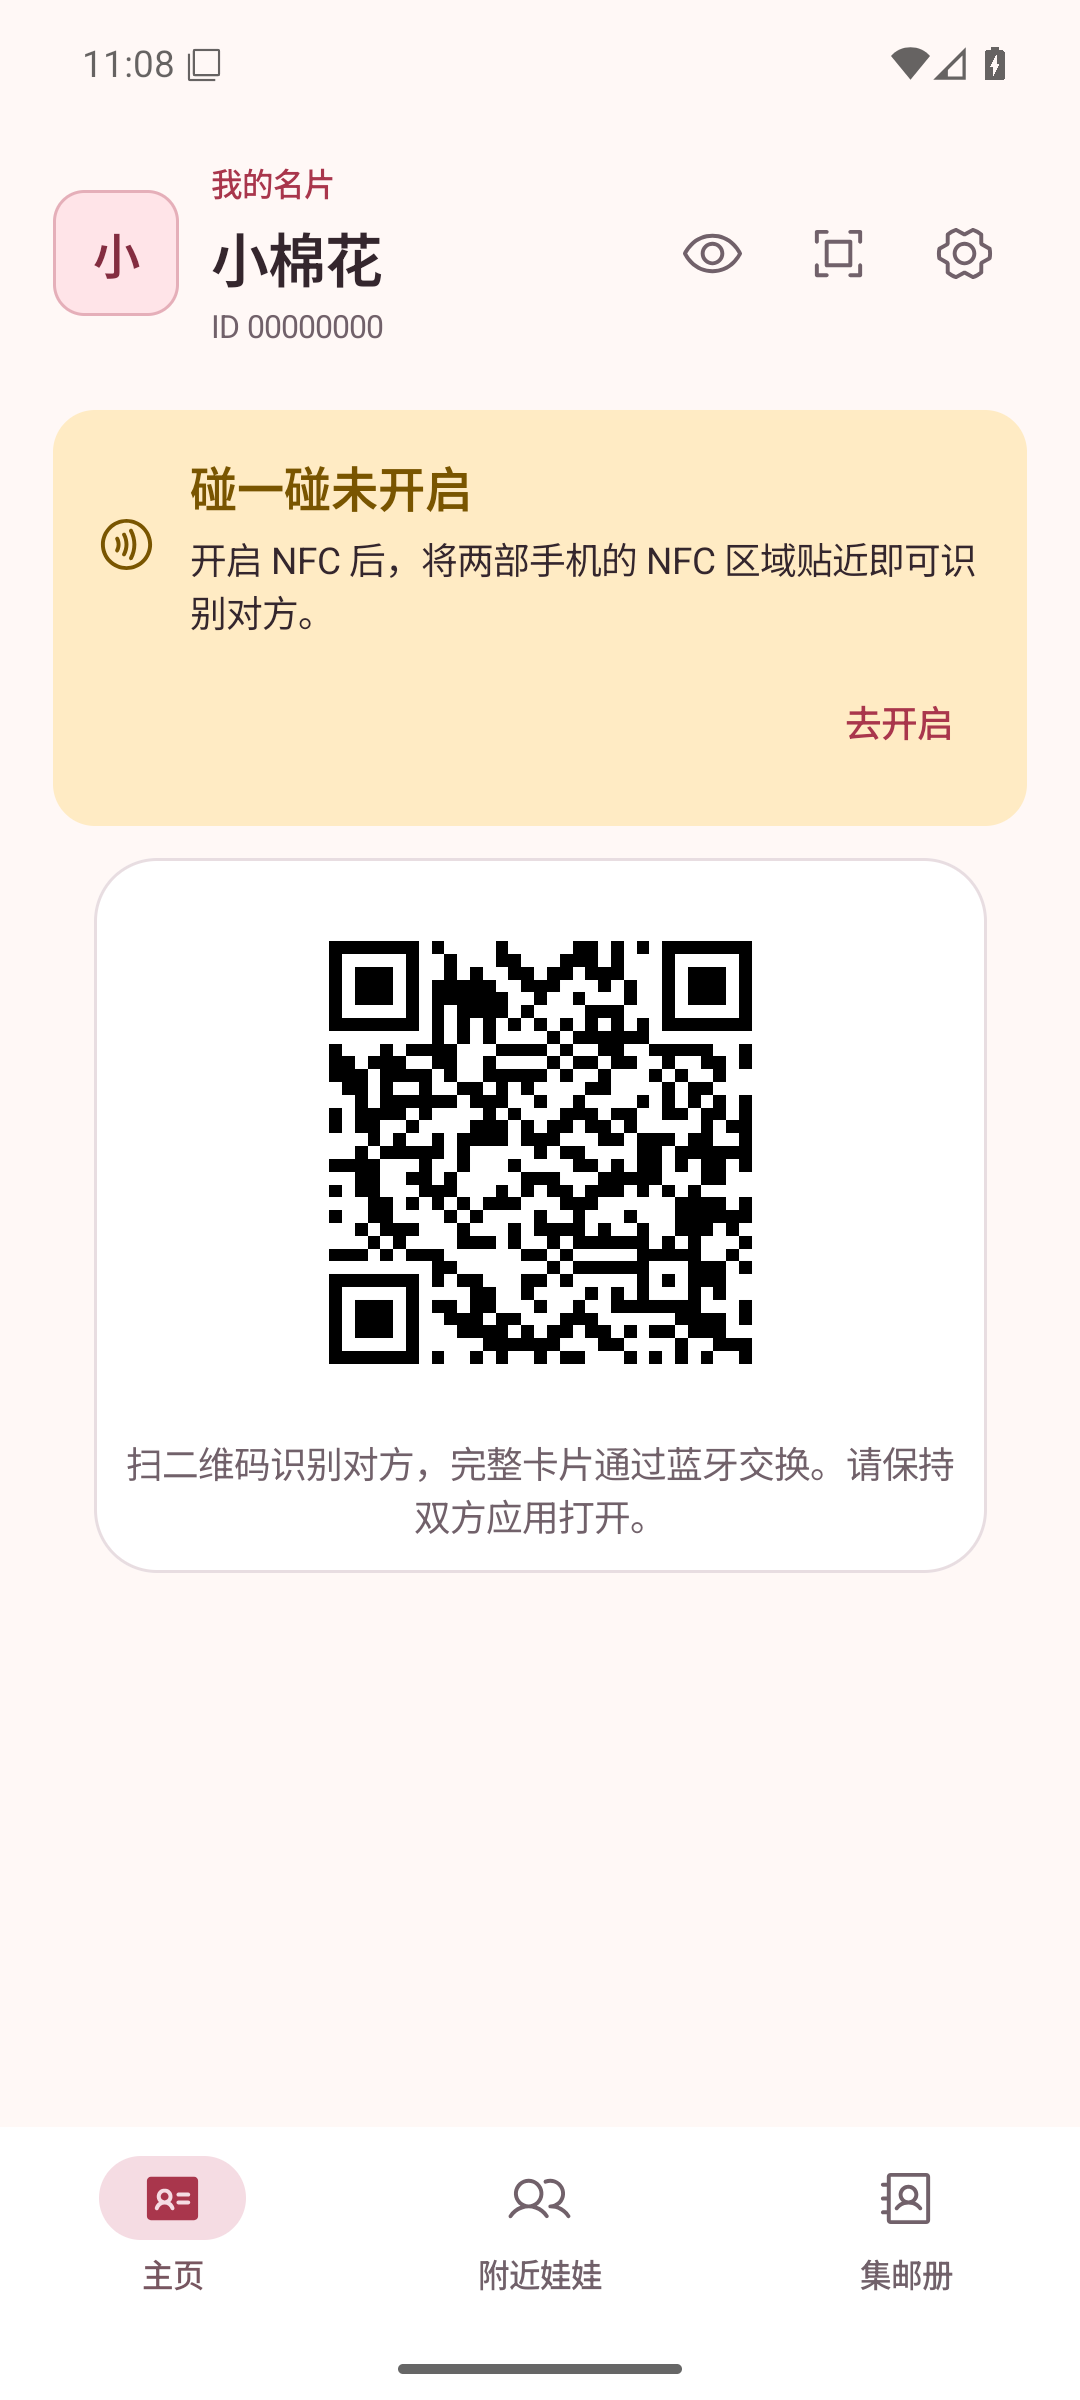
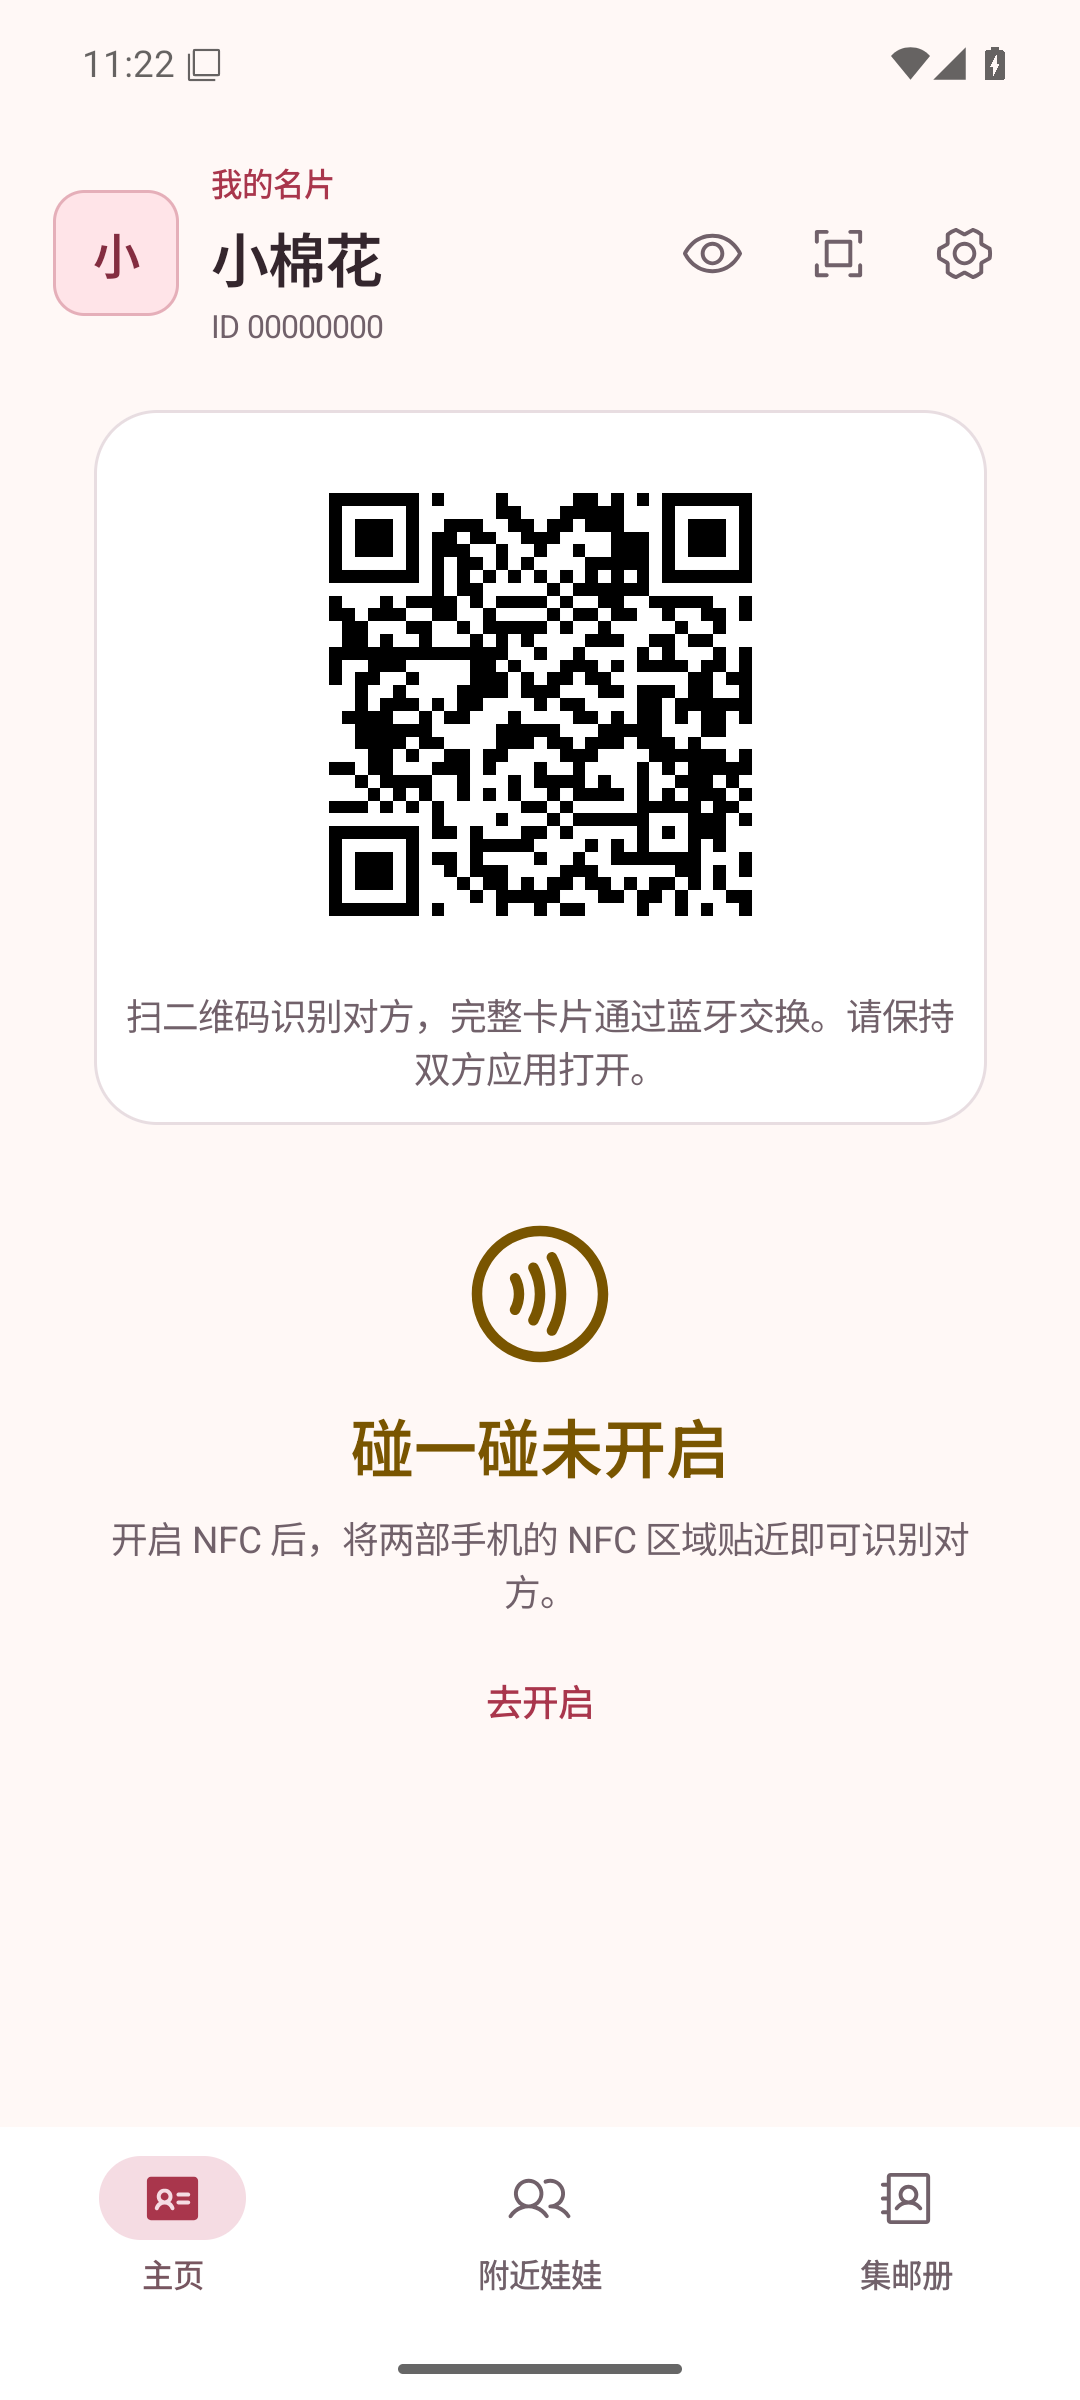
fix: 碰一碰提示改为二维码下方大图标与文案

diff --git a/app/src/main/kotlin/app/pengwa/ui/NfcStatus.kt b/app/src/main/kotlin/app/pengwa/ui/NfcStatus.kt
@@ -8,7 +8,6 @@ import androidx.compose.ui.unit.dp
 import app.pengwa.ui.components.PengWaIcon
 import app.pengwa.ui.components.PengWaIcons
 import app.pengwa.ui.theme.LocalStatusColors
-import androidx.compose.material3.Surface
 import androidx.compose.material3.MaterialTheme
 import androidx.compose.material3.IconButton
 import androidx.compose.material3.Text
@@ -21,6 +20,7 @@ import androidx.compose.runtime.setValue
 import androidx.compose.ui.Alignment
 import androidx.compose.ui.Modifier
 import androidx.compose.ui.platform.LocalContext
+import androidx.compose.ui.text.style.TextAlign
 import androidx.compose.ui.res.stringResource
 import androidx.lifecycle.compose.LifecycleResumeEffect
 import app.pengwa.R
@@ -68,50 +68,44 @@ internal fun NfcStatus(
         NfcState.Disabled -> statusColors.warning
         NfcState.Unsupported -> MaterialTheme.colorScheme.onSurfaceVariant
     }
-    val containerColor = when (state) {
-        NfcState.Ready -> statusColors.successContainer
-        NfcState.Disabled -> statusColors.warningContainer
-        else -> MaterialTheme.colorScheme.surfaceContainer
-    }
-    Surface(
-        modifier = modifier.fillMaxWidth(),
-        shape = MaterialTheme.shapes.medium,
-        color = containerColor,
+    Column(
+        modifier = modifier.fillMaxWidth().padding(vertical = 20.dp),
+        verticalArrangement = Arrangement.spacedBy(8.dp),
+        horizontalAlignment = Alignment.CenterHorizontally,
     ) {
-        Column(Modifier.padding(16.dp), verticalArrangement = Arrangement.spacedBy(8.dp)) {
-            Row(verticalAlignment = Alignment.CenterVertically, horizontalArrangement = Arrangement.spacedBy(12.dp)) {
-                if (BuildConfig.DEBUG && onOpenLab != null) {
-                    IconButton(onClick = { if (taps.tap(SystemClock.elapsedRealtime())) onOpenLab() }) {
-                        PengWaIcon(PengWaIcons.Tap, tint = color, contentDescription = stringResource(R.string.nfc_status_icon))
-                    }
-                } else {
-                    PengWaIcon(PengWaIcons.Tap, tint = color)
-                }
-                Column(Modifier.weight(1f), verticalArrangement = Arrangement.spacedBy(4.dp)) {
-                    Text(
-                        text = stringResource(when (state) {
-                            NfcState.Ready -> R.string.nfc_ready
-                            NfcState.Disabled -> R.string.nfc_disabled
-                            NfcState.Unsupported -> R.string.nfc_unsupported
-                        }),
-                        style = MaterialTheme.typography.titleMedium, color = color,
-                    )
-                    Text(
-                        text = stringResource(when (state) {
-                            NfcState.Ready -> R.string.nfc_auto_hint
-                            NfcState.Disabled -> R.string.nfc_enable_hint
-                            NfcState.Unsupported -> R.string.nfc_alternative_hint
-                        }),
-                        style = MaterialTheme.typography.bodyMedium,
-                        color = MaterialTheme.colorScheme.onSurface,
-                    )
-                }
+        if (BuildConfig.DEBUG && onOpenLab != null) {
+            IconButton(
+                onClick = { if (taps.tap(SystemClock.elapsedRealtime())) onOpenLab() },
+                modifier = Modifier.size(64.dp),
+            ) {
+                PengWaIcon(PengWaIcons.Tap, Modifier.size(64.dp), tint = color,
+                    contentDescription = stringResource(R.string.nfc_status_icon))
             }
-            if (state == NfcState.Disabled) {
-                TextButton(onClick = onOpenSettings, modifier = Modifier.align(Alignment.End)) {
-                    Text(stringResource(R.string.nfc_open_settings))
-                }
-            }
+        } else {
+            PengWaIcon(PengWaIcons.Tap, Modifier.size(64.dp), tint = color)
+        }
+        Text(
+            text = stringResource(when (state) {
+                NfcState.Ready -> R.string.nfc_ready
+                NfcState.Disabled -> R.string.nfc_disabled
+                NfcState.Unsupported -> R.string.nfc_unsupported
+            }),
+            style = MaterialTheme.typography.titleLarge, color = color,
+            textAlign = TextAlign.Center,
+        )
+        Text(
+            text = stringResource(when (state) {
+                NfcState.Ready -> R.string.nfc_auto_hint
+                NfcState.Disabled -> R.string.nfc_enable_hint
+                NfcState.Unsupported -> R.string.nfc_alternative_hint
+            }),
+            modifier = Modifier.widthIn(max = 340.dp),
+            style = MaterialTheme.typography.bodyMedium,
+            color = MaterialTheme.colorScheme.onSurfaceVariant,
+            textAlign = TextAlign.Center,
+        )
+        if (state == NfcState.Disabled) {
+            TextButton(onClick = onOpenSettings) { Text(stringResource(R.string.nfc_open_settings)) }
         }
     }
 }

diff --git a/app/src/main/kotlin/app/pengwa/ui/FaceToFacePage.kt b/app/src/main/kotlin/app/pengwa/ui/FaceToFacePage.kt
@@ -13,7 +13,6 @@ import androidx.compose.ui.graphics.asImageBitmap
 import androidx.compose.foundation.layout.Arrangement
 import androidx.compose.foundation.layout.BoxWithConstraints
 import androidx.compose.foundation.layout.Column
-import androidx.compose.foundation.layout.Row
 import androidx.compose.foundation.layout.aspectRatio
 import androidx.compose.foundation.layout.fillMaxSize
 import androidx.compose.foundation.layout.fillMaxWidth
@@ -138,31 +137,16 @@ internal fun FaceToFacePageContent(
     var expanded by rememberSaveable { mutableStateOf(false) }
     BoxWithConstraints(modifier.fillMaxSize()) {
         val compact = maxHeight < 300.dp && maxWidth >= 480.dp
-        if (compact) {
-            Row(Modifier.fillMaxSize().padding(horizontal = PageGutter, vertical = 8.dp), horizontalArrangement = Arrangement.spacedBy(16.dp)) {
-                Column(Modifier.weight(1f), horizontalAlignment = Alignment.CenterHorizontally) {
-                    Column(Modifier.weight(1f).verticalScroll(rememberScrollState()), verticalArrangement = Arrangement.spacedBy(8.dp)) {
-                        NfcStatus(nfcState, onOpenNfcSettings, onOpenLab = onOpenLab)
-                        NfcWalletInstructions(nfcState, defaultWallet, onRequestWallet)
-                    }
-                }
-                Column(Modifier.widthIn(max = 216.dp).weight(1f), horizontalAlignment = Alignment.CenterHorizontally,
-                    verticalArrangement = Arrangement.spacedBy(8.dp)) {
-                    BoxWithConstraints(Modifier.weight(1f), contentAlignment = Alignment.Center) {
-                        val edge = minOf(200.dp, maxWidth - 16.dp, maxHeight - 16.dp).coerceAtLeast(48.dp)
-                        ExchangeQrCard(identity, onExpand = { expanded = true }, showHint = false, codeSize = edge)
-                    }
-                }
-            }
-        } else {
-            Column(Modifier.fillMaxSize().padding(horizontal = PageGutter, vertical = 12.dp), horizontalAlignment = Alignment.CenterHorizontally) {
-                Column(Modifier.weight(1f).fillMaxWidth().verticalScroll(rememberScrollState()),
-                    verticalArrangement = Arrangement.spacedBy(12.dp), horizontalAlignment = Alignment.CenterHorizontally) {
-                    NfcStatus(nfcState, onOpenNfcSettings, onOpenLab = onOpenLab)
-                    NfcWalletInstructions(nfcState, defaultWallet, onRequestWallet)
-                    ExchangeQrCard(identity, onExpand = { expanded = true })
-                }
-            }
+        val codeSize = minOf(200.dp, maxHeight - 40.dp).coerceAtLeast(48.dp)
+        Column(
+            Modifier.fillMaxSize().padding(horizontal = PageGutter, vertical = 12.dp)
+                .verticalScroll(rememberScrollState()),
+            verticalArrangement = Arrangement.spacedBy(12.dp),
+            horizontalAlignment = Alignment.CenterHorizontally,
+        ) {
+            ExchangeQrCard(identity, onExpand = { expanded = true }, showHint = !compact, codeSize = codeSize)
+            NfcStatus(nfcState, onOpenNfcSettings, onOpenLab = onOpenLab)
+            NfcWalletInstructions(nfcState, defaultWallet, onRequestWallet)
         }
     }
     if (expanded) QrCardDialog(identity) { expanded = false }

diff --git a/docs/screenshots/card-qr-actions/README.md b/docs/screenshots/card-qr-actions/README.md
@@ -3,7 +3,7 @@
 - 删除底部通栏“扫一扫”，改为右上角的取景框式扫码图标（Phosphor Scan）；保留 48dp 触控区域和“扫一扫”无障碍名称。
 - 编辑入口收进名片预览：点击眼睛图标“查看我的卡片”，再点“编辑”；保存后返回预览。同步更新首次创建名片的说明。
 - 二维码使用圆角气泡卡片；二维码本身保留四模块识别静区，取消原来额外的圆角白色内框。
-- 碰一碰改为二维码上方的醒目状态卡，显示“碰一碰，交换名片”及贴近手机 NFC 区域的说明；关闭、不支持 NFC 时显示对应指引。
+- 碰一碰放在二维码下方，使用 64dp 大图标和居中文字，不使用背景卡片，显示“碰一碰，交换名片”及贴近手机 NFC 区域的说明；关闭、不支持 NFC 时显示对应指引。
 - 移除“出示／读取”模式选择，不增加开始按钮。双方保持主页打开，由应用自动协调 NFC 角色；引导图解同步更新。
 
 ## 运行截图
@@ -29,7 +29,7 @@
 | 放大二维码，浅色 | ![](before-expanded-light.png) | ![](after-expanded-light.png) |
 | 放大二维码，深色 | ![](before-expanded-dark.png) | ![](after-expanded-dark.png) |
 
-补充状态：[相机扫码](after-scanner-light.png)、[375dp 手机](after-home-phone-375.png)、[320dp／2 倍字体](after-home-large-text.png)、[640 × 320dp 横屏](after-home-landscape.png)。适配截图均为浅色、420dpi，分辨率依次为 984 × 1968、840 × 1680、1680 × 840；大字体下正文允许滚动。
+补充状态：[相机扫码](after-scanner-light.png)、[375dp 手机](after-home-phone-375.png)、[320dp／2 倍字体](after-home-large-text.png)、[640 × 320dp 横屏](after-home-landscape.png)、[横屏下滑后的提示](after-home-landscape-scrolled.png)、[大字体下滑后的提示](after-home-large-text-scrolled.png)。适配截图均为浅色、420dpi，375dp、320dp 和横屏分辨率分别为 984 × 1968、840 × 1680、1680 × 840，下滑截图沿用对应尺寸；大字体及横屏下可滚动查看二维码下方的提示。
 
 ## 复现与验证
 
